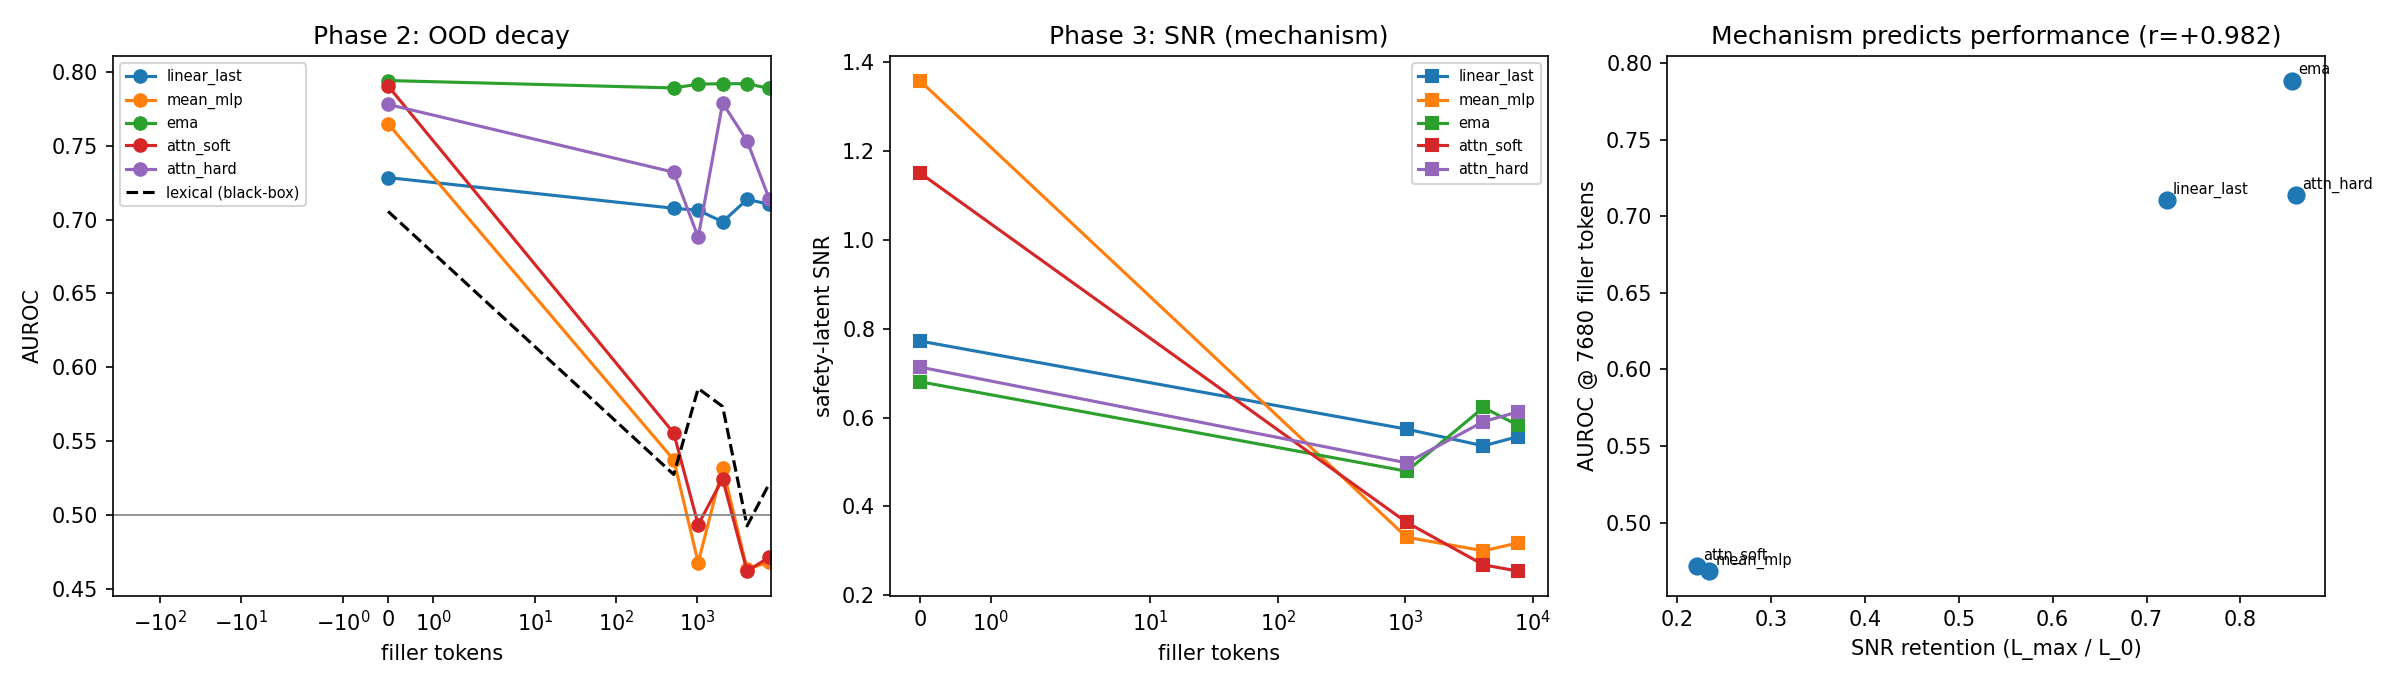
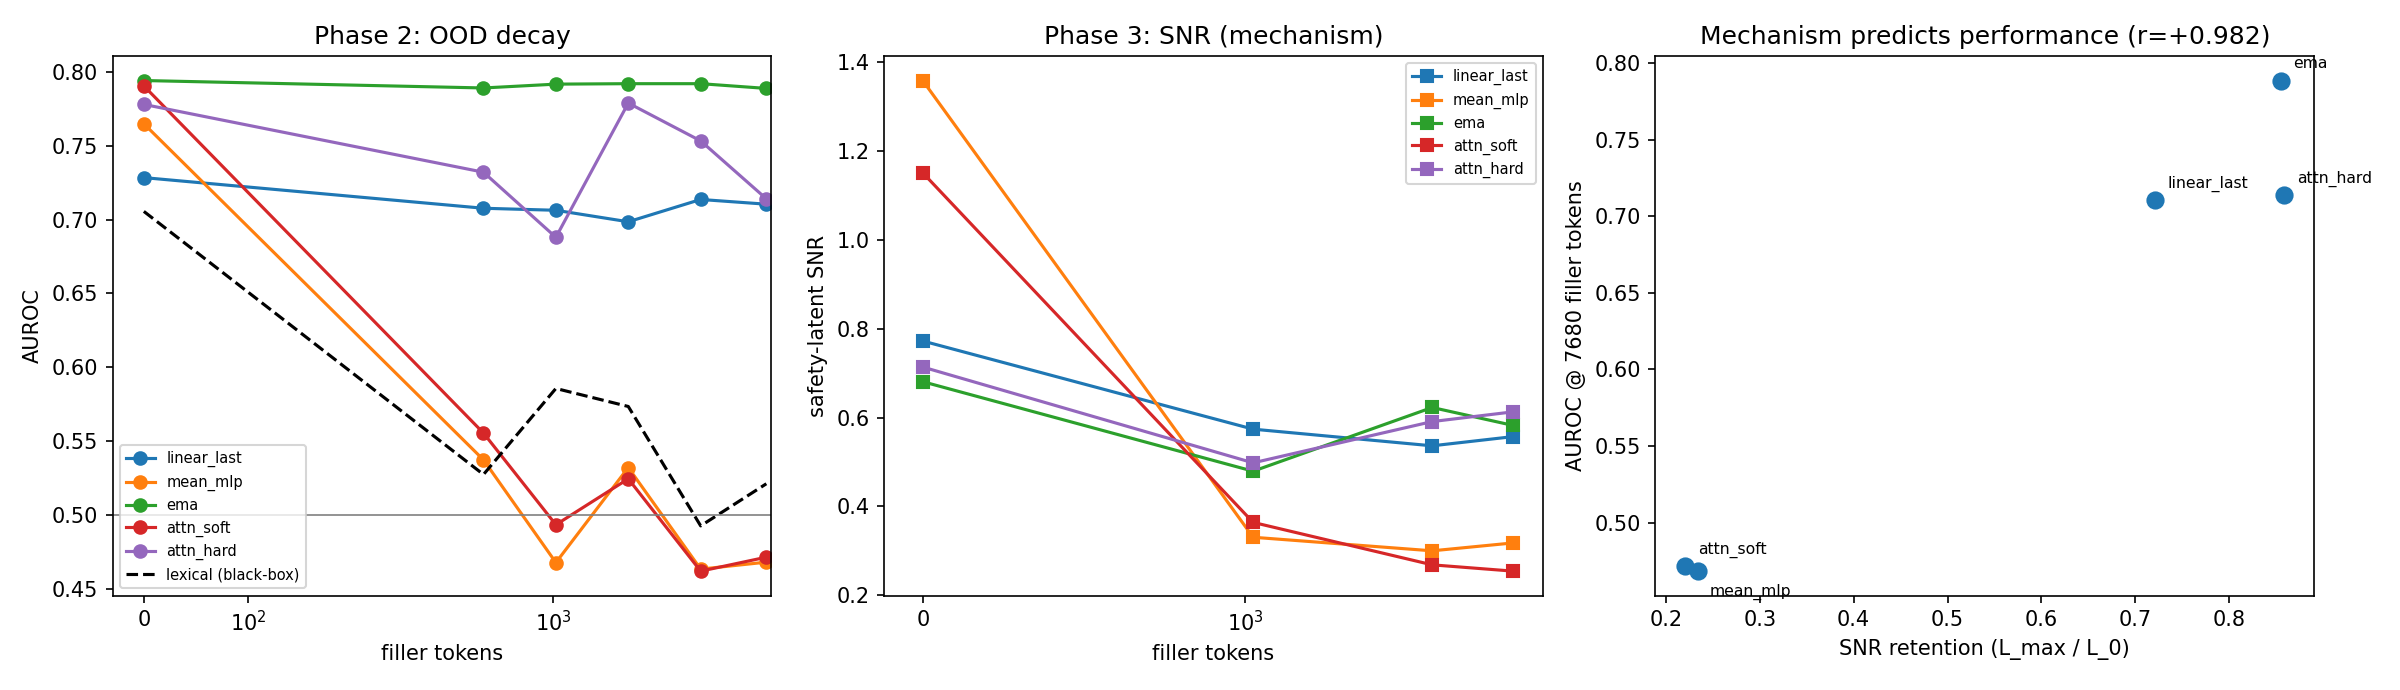
Fix symlog axis ticks and label overlap in summary figure

diff --git a/05_synthesis_and_figures.py b/05_synthesis_and_figures.py
@@ -152,20 +152,23 @@ def main() -> int:
                    ls="--", c="k", label="lexical (black-box)")
         ax[0].axhline(0.5, c="grey", lw=0.8)
         ax[0].set_xlabel("filler tokens"); ax[0].set_ylabel("AUROC")
-        ax[0].set_title("Phase 2: OOD decay"); ax[0].legend(fontsize=7); ax[0].set_xscale("symlog")
+        ax[0].set_title("Phase 2: OOD decay"); ax[0].legend(fontsize=7); ax[0].set_xscale("symlog", linthresh=256); ax[0].set_xlim(left=-30)
 
         lad3 = [int(x) for x in p3["ladder"]]
         for a in ARCHS:
             ax[1].plot(lad3, [p3["snr"][a][str(l)] for l in lad3], marker="s", label=a)
         ax[1].set_xlabel("filler tokens"); ax[1].set_ylabel("safety-latent SNR")
-        ax[1].set_title("Phase 3: SNR (mechanism)"); ax[1].set_xscale("symlog")
+        ax[1].set_title("Phase 3: SNR (mechanism)")
+        ax[1].set_xscale("symlog", linthresh=1024); ax[1].set_xlim(left=-120)
         ax[1].legend(fontsize=7)
 
         x = [p3["snr"][a][str(lad3[-1])] / p3["snr"][a][str(lad3[0])] for a in ARCHS]
         yv = [p2["ladder_results"][a][str(lad[-1])] for a in ARCHS]
         ax[2].scatter(x, yv, s=60)
         for a, xi, yi in zip(ARCHS, x, yv):
-            ax[2].annotate(a, (xi, yi), fontsize=7, xytext=(3, 3), textcoords="offset points")
+            ax[2].annotate(a, (xi, yi), fontsize=7.5,
+                           xytext=(6, 6 if a != "mean_mlp" else -12),
+                           textcoords="offset points")
         r = torch.corrcoef(torch.stack([torch.tensor(x), torch.tensor(yv)]))[0, 1].item()
         ax[2].set_xlabel("SNR retention (L_max / L_0)")
         ax[2].set_ylabel("AUROC @ 7680 filler tokens")
